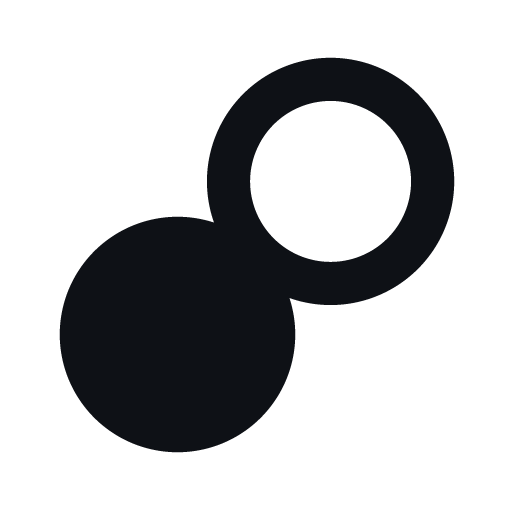
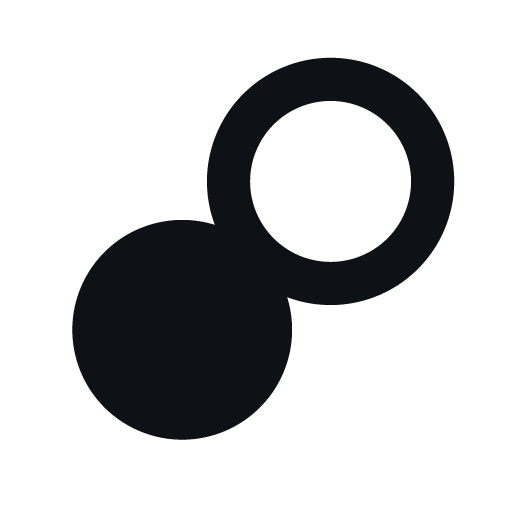
Balance the two forms optically and settle the palette on ochre

diff --git a/brand/render.py b/brand/render.py
@@ -3,7 +3,7 @@ import zlib, struct
 from math import hypot
 
 INK   = (0x0E, 0x11, 0x16, 255)
-AMBER = (0xF2, 0xA3, 0x3C, 255)
+AMBER = (0xD9, 0x92, 0x4A, 255)   # ochre
 CLEAR = (0, 0, 0, 0)
 SS = 4  # samples per axis
 
@@ -17,10 +17,14 @@ def mark_hit(x, y):
     """The mark in its native 120x120 space.
 
     A solid disc and an open ring, joined and rising. The floor always has value, so it is solid.
-    The upside can be worth nothing, so it is a hole. They overlap rather than float apart, which
-    is what keeps the mark one object at 28px instead of three details that collapse separately."""
-    if hypot(x - 40.0, y - 80.0) <= 30.0: return True              # the floor
-    if abs(hypot(x - 79.0, y - 41.0) - 26.0) <= 5.5: return True   # the upside
+    The upside can be worth nothing, so it is a hole.
+
+    The disc is r=28 rather than r=30 on purpose. A solid form carries far more optical weight than
+    a hollow one -- at r=30 it held 57% more ink than the ring and the pair read as lopsided. At
+    r=28 the two footprints are near enough equal, with the disc still fractionally the heavier of
+    the two, which is also true of the thing it stands for."""
+    if hypot(x - 41.2, y - 78.8) <= 28.0: return True             # the floor
+    if abs(hypot(x - 79.0, y - 41.0) - 26.0) <= 5.5: return True  # the upside
     return False
 
 def payoff_hit(x, y, w, h):

diff --git a/brand/README.md b/brand/README.md
@@ -38,26 +38,32 @@ object with one internal detail, and it survives down to 28px.
 
 ## Which background
 
-Amber, with the mark in ink. It is the only pairing that survives every feed.
+Ochre mark on ink. Not ink on a filled ochre square.
 
-X has three themes and people use all of them. A **dark** avatar dissolves into a lights-out
-timeline and loses its edge; a **light** one vanishes against light mode. Amber is a mid-tone, so it
-holds contrast against black, against `#15202B`, and against white. That it is also the brand colour
-is a bonus, not the reason.
+An earlier draft had it the other way round, chosen because a mid-tone background keeps its edge
+against every X theme. That was optimising for the wrong thing. A filled colour block is a wall with
+no air in it, and the mark is meant to sit calmly rather than shout.
 
-Use `aarka-avatar-alt` (amber on ink) only on surfaces you control, where nothing is competing.
-On your own site, docs and README, use the transparent mark and let your background do the work.
+On a lights-out timeline the ink ground is so close to the feed that the circle's edge disappears
+and the mark simply floats on the page. That reads as deliberate, not broken, and it is the better
+outcome. On light mode the dark disc is strong. On dim it sits quietly between the two.
+
+`aarka-avatar-alt` puts the mark on paper instead, for light decks and print.
 
 ## Colour
 
 ```
 ink     #0E1116    backgrounds, the wordmark on light
-amber   #F2A33C    the mark
-paper   #F7F4ED    the wordmark on dark
+ochre   #D9924A    the mark
+paper   #F7F4ED    the wordmark on dark, light-ground avatars
 ```
 
-Amber rather than the usual crypto blue or purple: warm, legible against a dark UI, and distinct on
+Ochre rather than the usual crypto blue or purple: warm, legible against a dark UI, and distinct on
 a timeline where everything else is cold.
+
+It is deliberately deeper and less saturated than a bright orange. Bright orange reads as playful
+and slightly loud; this sits closer to earth pigment, which is warm without raising its voice. For a
+product whose subject is a floor under a position, that is the right register.
 
 ## Rules
 
@@ -66,6 +72,8 @@ a timeline where everything else is cold.
 - Never close the gap. The gap is the product.
 - The mark stays legible down to 28px; below that, use the solid disc alone.
 - Never separate the two forms. They overlap so the mark stays one object when it is small.
+- Do not resize one form without the other. The disc is r=28 against a ring of r=26/w=11 because a
+  solid shape outweighs a hollow one; changing either alone makes the pair lopsided again.
 
 ## Regenerating
 
